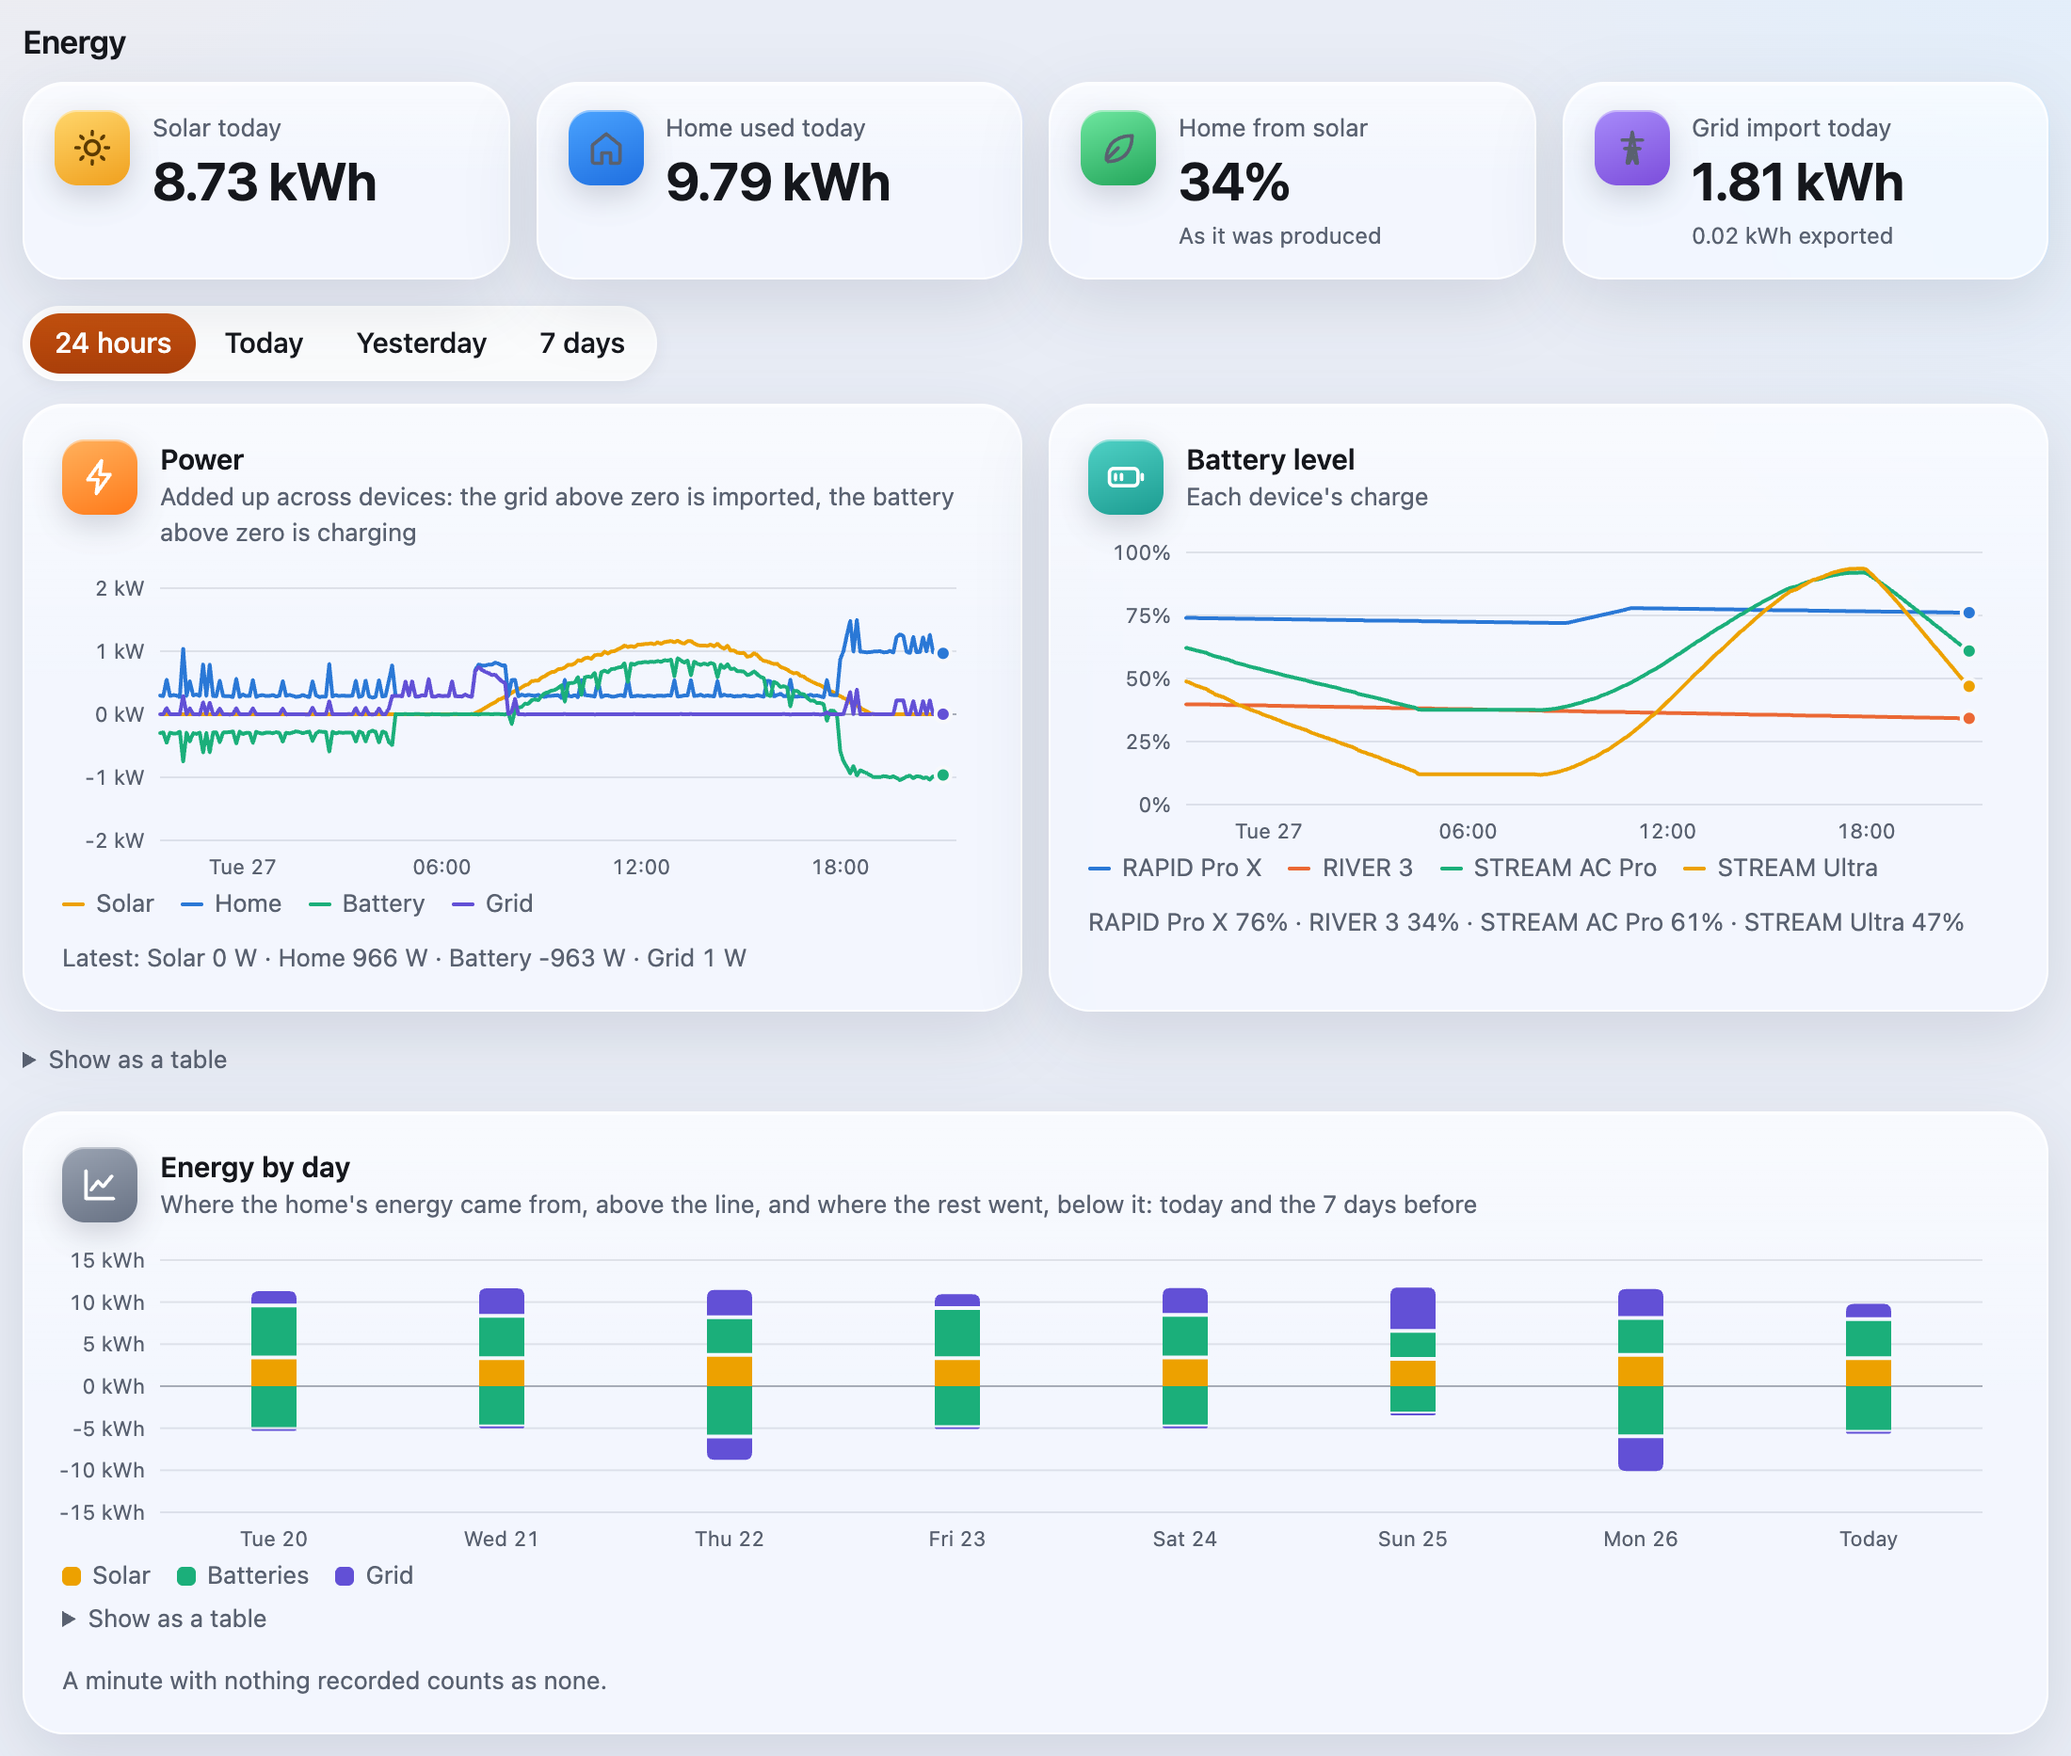
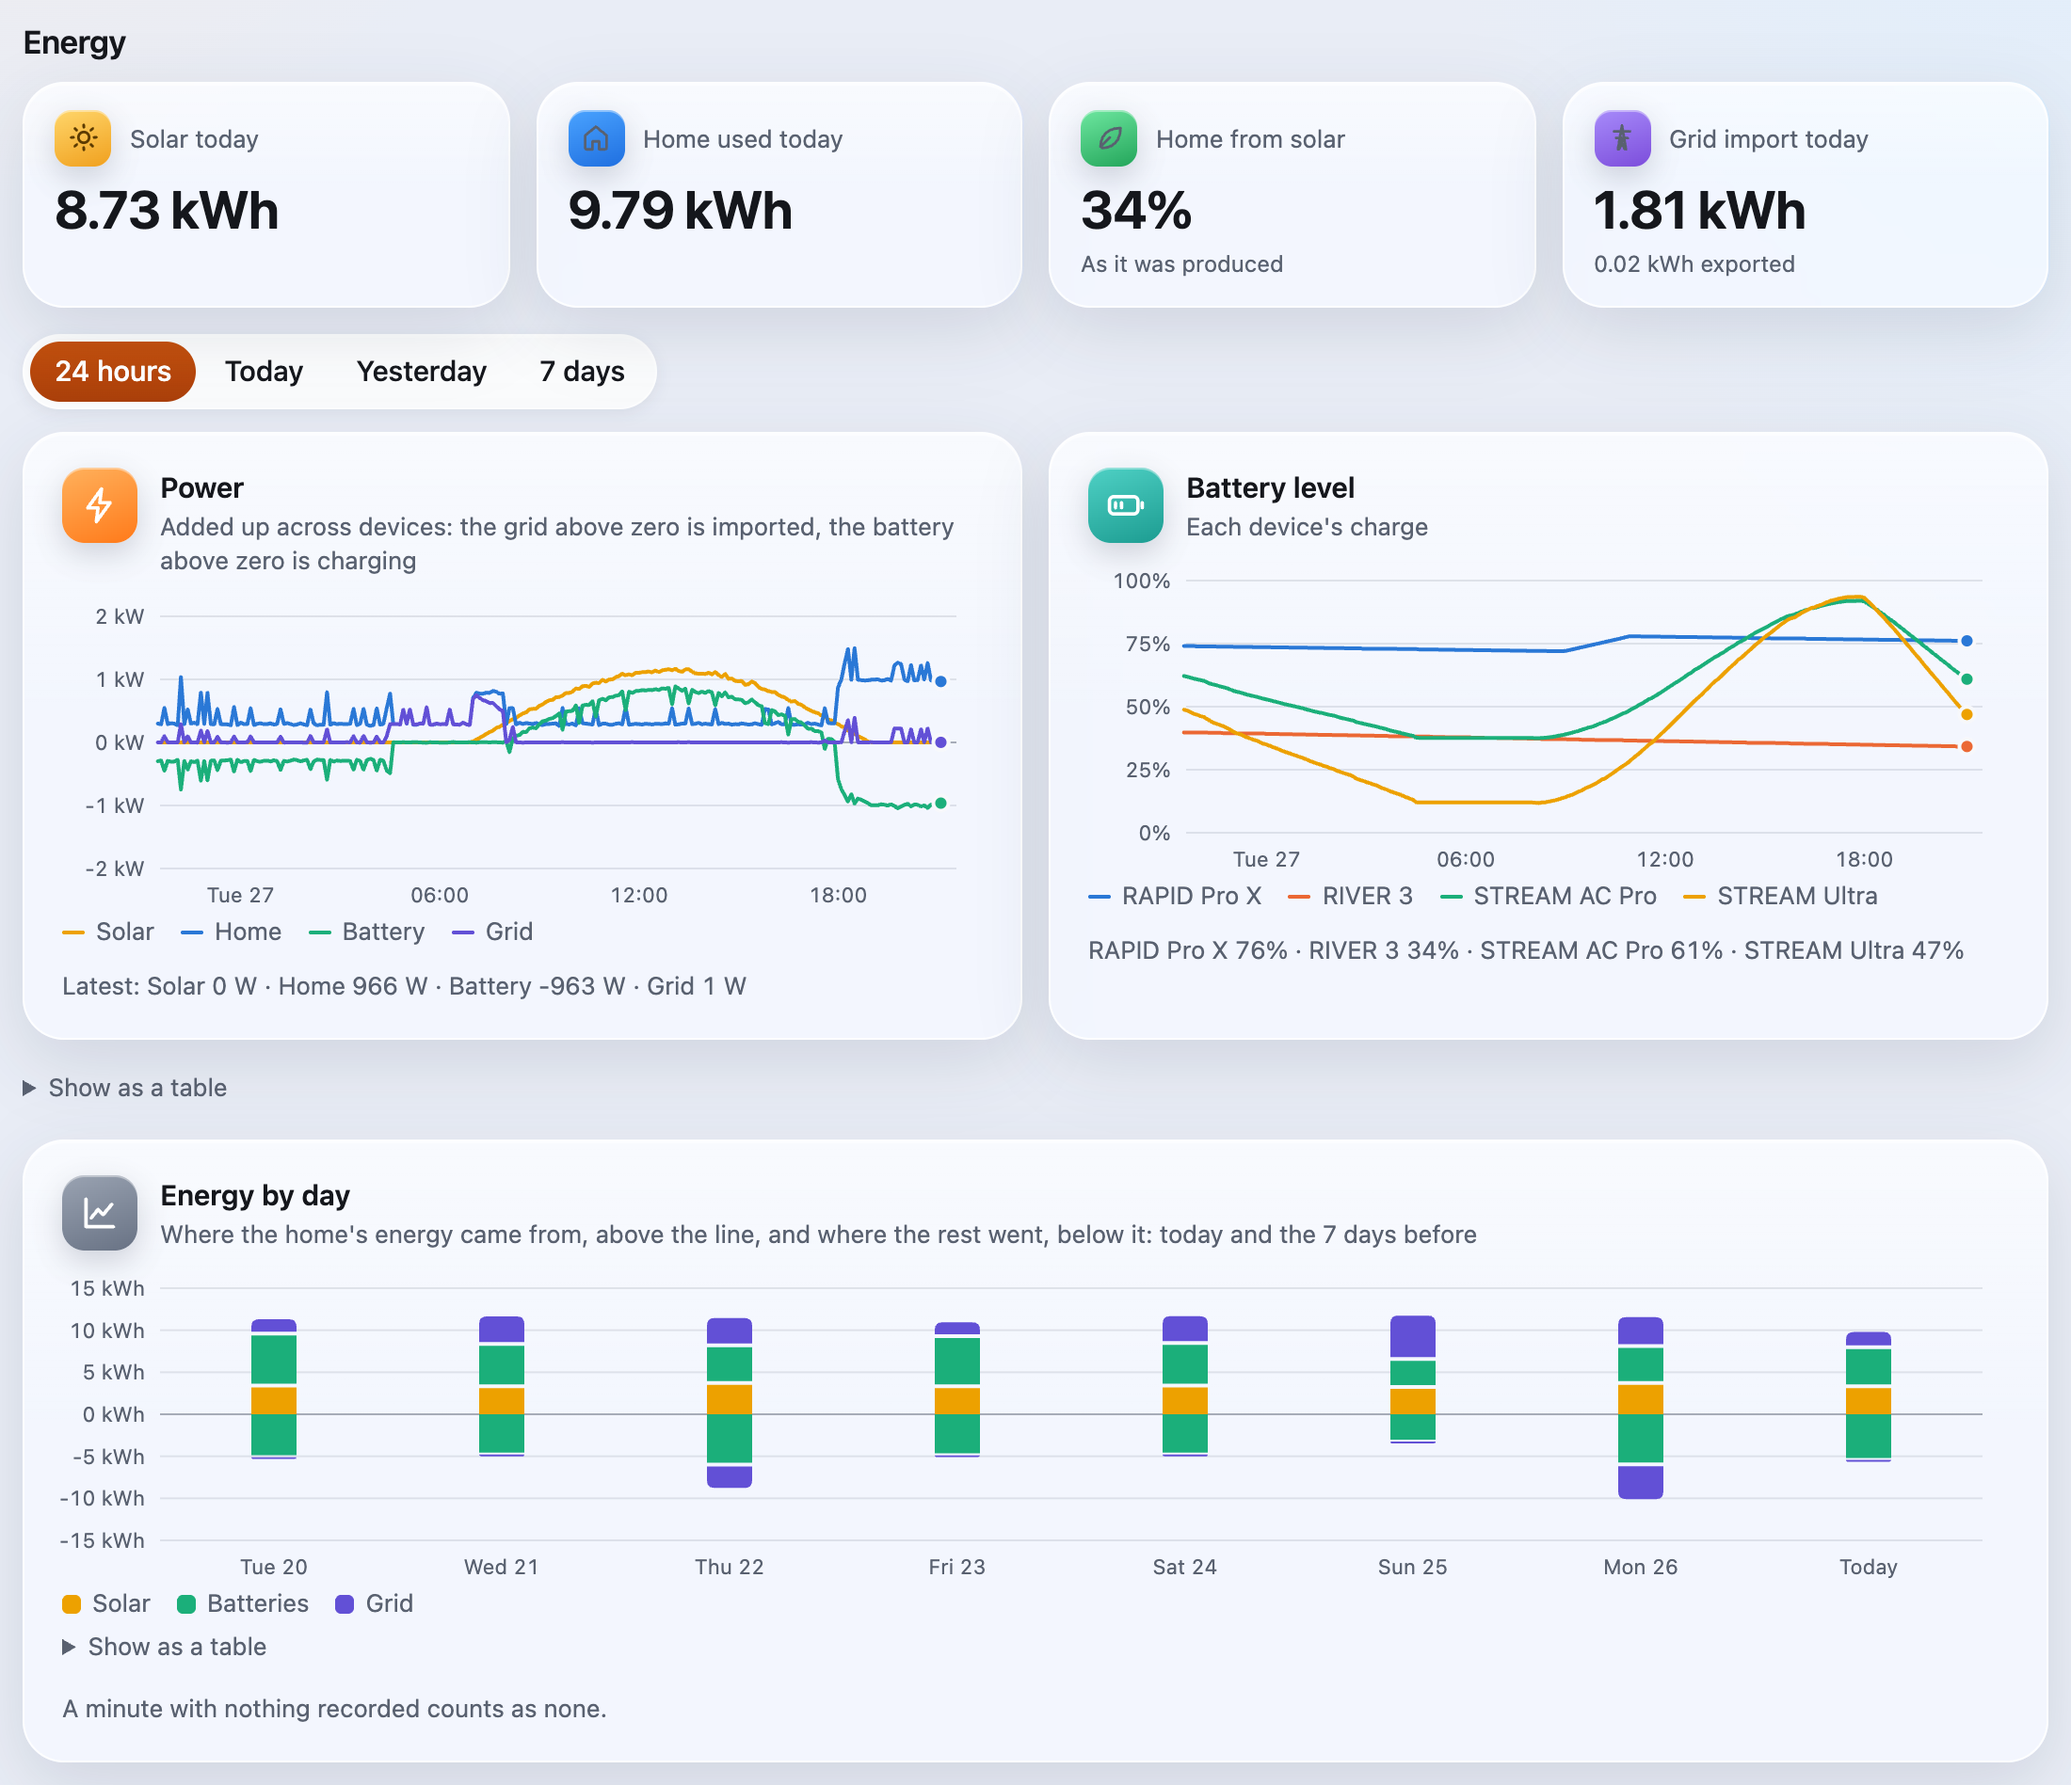
Energy section: compact cards on a phone
Today's figures put a small tile beside their label and the figure the
card's width under them, two a row on a phone; the chart cards take
tighter padding and smaller tiles there, and the range spans the width.

diff --git a/Sources/HomeswiftUI/WebAssets.swift b/Sources/HomeswiftUI/WebAssets.swift
@@ -18818,14 +18818,32 @@ a.stat:active { transform: scale(0.97); transition-duration: 80ms; }
 .filter-bar .popup { max-width: 260px; }
 .chart-grid { display: grid; grid-template-columns: repeat(auto-fill, minmax(min(100%, 420px), 1fr)); gap: 14px; transition: opacity var(--normal) var(--ease-out); }
 /* The Energy section's days: one card the width of the row, its table under the head. */
-/* Today's figures above the charts: a label in muted ink over a proportional figure. */
+/* Today's figures above the charts: a small tile and the label on one row, the proportional figure the card's width
+   under them, a note in muted ink. */
 .energy-today { display: grid; grid-template-columns: repeat(auto-fit, minmax(150px, 1fr)); gap: 14px; margin-bottom: 14px; }
-.energy-today .card { margin: 0; padding: 14px 16px; display: flex; gap: 12px; align-items: flex-start; }
-.energy-today .card > div { display: grid; gap: 4px; min-width: 0; }
+.energy-today .card { margin: 0; padding: 14px 16px; display: grid; grid-template-columns: auto minmax(0, 1fr); align-items: center; gap: 8px 10px; align-content: start; }
+.energy-today .card > div { display: contents; }
+.energy-today .tile { width: 30px; height: 30px; border-radius: 9px; }
+.energy-today .tile svg { width: 17px; height: 17px; }
 .energy-today span { font-size: 0.8125rem; color: var(--muted); }
+.energy-today b, .energy-today small { grid-column: 1 / -1; }
+.energy-today b { font-size: 1.75rem; line-height: 1.1; font-weight: 650; letter-spacing: -0.02em; white-space: nowrap; }
+.energy-today small { font-size: 0.75rem; color: var(--muted); margin-top: -4px; }
 .energy .chart-head .who { flex: 1; min-width: 0; }
-.energy-today b { font-size: 1.75rem; line-height: 1.1; font-weight: 650; letter-spacing: -0.02em; }
-.energy-today small { font-size: 0.75rem; color: var(--muted); }
+/* A phone: two figures a row, tighter cards, smaller tiles, the range across the width. */
+@media (max-width: 640px) {
+  .energy-today { grid-template-columns: repeat(2, minmax(0, 1fr)); gap: 10px; margin-bottom: 12px; }
+  .energy-today .card { padding: 12px 14px; }
+  .energy-today b { font-size: 1.375rem; }
+  .energy .chart-grid { gap: 10px; }
+  .energy .chart-card { padding: 14px; gap: 8px; }
+  .energy .chart-head { gap: 10px; }
+  .energy .chart-head .tile { width: 32px; height: 32px; border-radius: 10px; }
+  .energy .chart-head .tile svg { width: 18px; height: 18px; }
+  .energy .chart-head .muted { font-size: 0.75rem; }
+  .energy .group { display: flex; width: 100%; }
+  .energy .group button { flex: 1; padding-inline: 6px; }
+}
 .energy .chart-table { margin-top: 12px; }
 .chart-grid.energy-days { grid-template-columns: minmax(0, 1fr); margin-top: 14px; }
 .energy-days .chart-table { margin-top: 0; }

diff --git a/Sources/HomeswiftUI/Web/style.css b/Sources/HomeswiftUI/Web/style.css
@@ -1163,14 +1163,32 @@ a.stat:active { transform: scale(0.97); transition-duration: 80ms; }
 .filter-bar .popup { max-width: 260px; }
 .chart-grid { display: grid; grid-template-columns: repeat(auto-fill, minmax(min(100%, 420px), 1fr)); gap: 14px; transition: opacity var(--normal) var(--ease-out); }
 /* The Energy section's days: one card the width of the row, its table under the head. */
-/* Today's figures above the charts: a label in muted ink over a proportional figure. */
+/* Today's figures above the charts: a small tile and the label on one row, the proportional figure the card's width
+   under them, a note in muted ink. */
 .energy-today { display: grid; grid-template-columns: repeat(auto-fit, minmax(150px, 1fr)); gap: 14px; margin-bottom: 14px; }
-.energy-today .card { margin: 0; padding: 14px 16px; display: flex; gap: 12px; align-items: flex-start; }
-.energy-today .card > div { display: grid; gap: 4px; min-width: 0; }
+.energy-today .card { margin: 0; padding: 14px 16px; display: grid; grid-template-columns: auto minmax(0, 1fr); align-items: center; gap: 8px 10px; align-content: start; }
+.energy-today .card > div { display: contents; }
+.energy-today .tile { width: 30px; height: 30px; border-radius: 9px; }
+.energy-today .tile svg { width: 17px; height: 17px; }
 .energy-today span { font-size: 0.8125rem; color: var(--muted); }
+.energy-today b, .energy-today small { grid-column: 1 / -1; }
+.energy-today b { font-size: 1.75rem; line-height: 1.1; font-weight: 650; letter-spacing: -0.02em; white-space: nowrap; }
+.energy-today small { font-size: 0.75rem; color: var(--muted); margin-top: -4px; }
 .energy .chart-head .who { flex: 1; min-width: 0; }
-.energy-today b { font-size: 1.75rem; line-height: 1.1; font-weight: 650; letter-spacing: -0.02em; }
-.energy-today small { font-size: 0.75rem; color: var(--muted); }
+/* A phone: two figures a row, tighter cards, smaller tiles, the range across the width. */
+@media (max-width: 640px) {
+  .energy-today { grid-template-columns: repeat(2, minmax(0, 1fr)); gap: 10px; margin-bottom: 12px; }
+  .energy-today .card { padding: 12px 14px; }
+  .energy-today b { font-size: 1.375rem; }
+  .energy .chart-grid { gap: 10px; }
+  .energy .chart-card { padding: 14px; gap: 8px; }
+  .energy .chart-head { gap: 10px; }
+  .energy .chart-head .tile { width: 32px; height: 32px; border-radius: 10px; }
+  .energy .chart-head .tile svg { width: 18px; height: 18px; }
+  .energy .chart-head .muted { font-size: 0.75rem; }
+  .energy .group { display: flex; width: 100%; }
+  .energy .group button { flex: 1; padding-inline: 6px; }
+}
 .energy .chart-table { margin-top: 12px; }
 .chart-grid.energy-days { grid-template-columns: minmax(0, 1fr); margin-top: 14px; }
 .energy-days .chart-table { margin-top: 0; }
